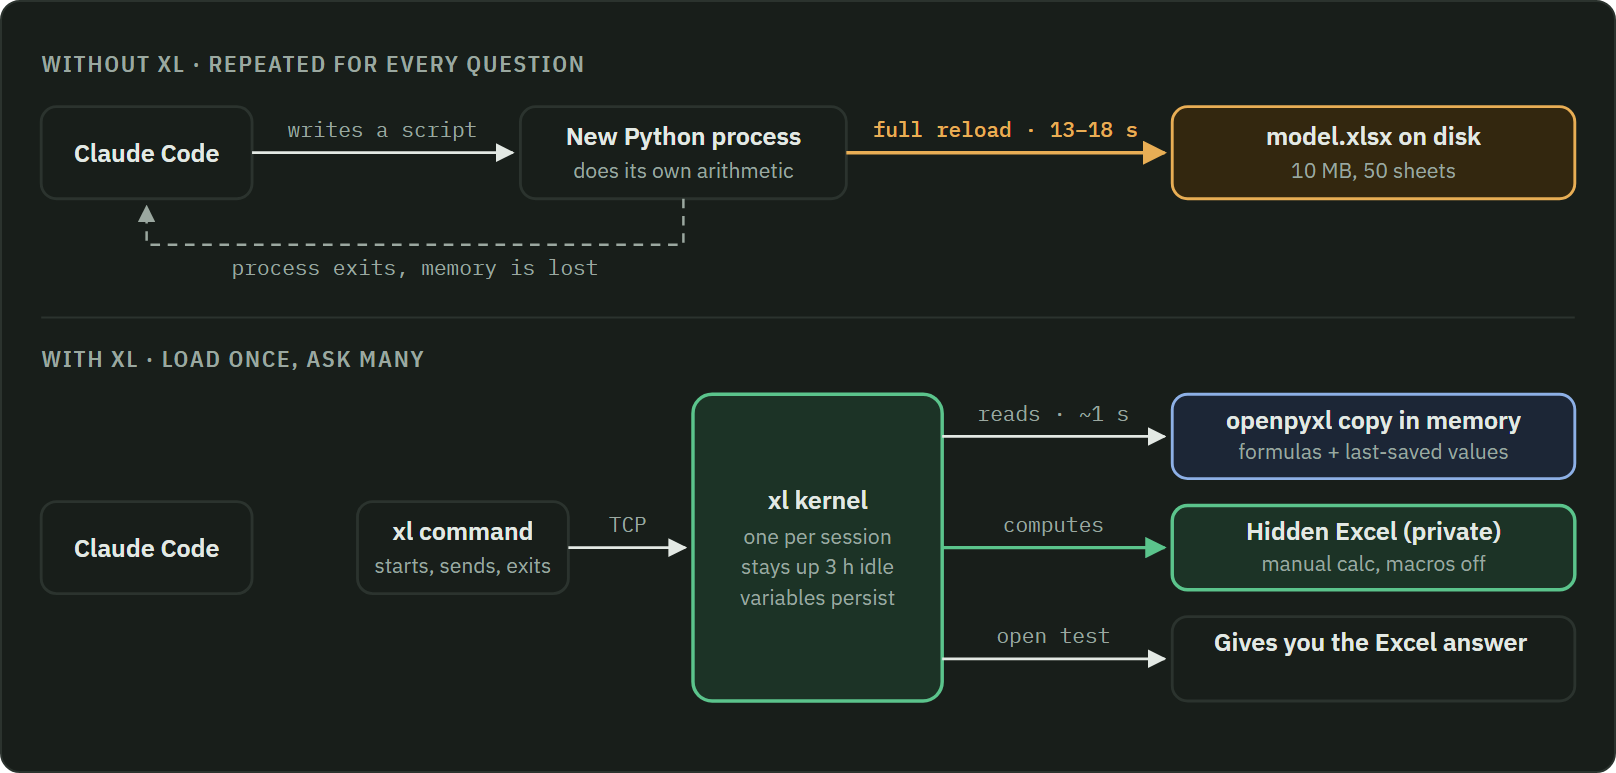
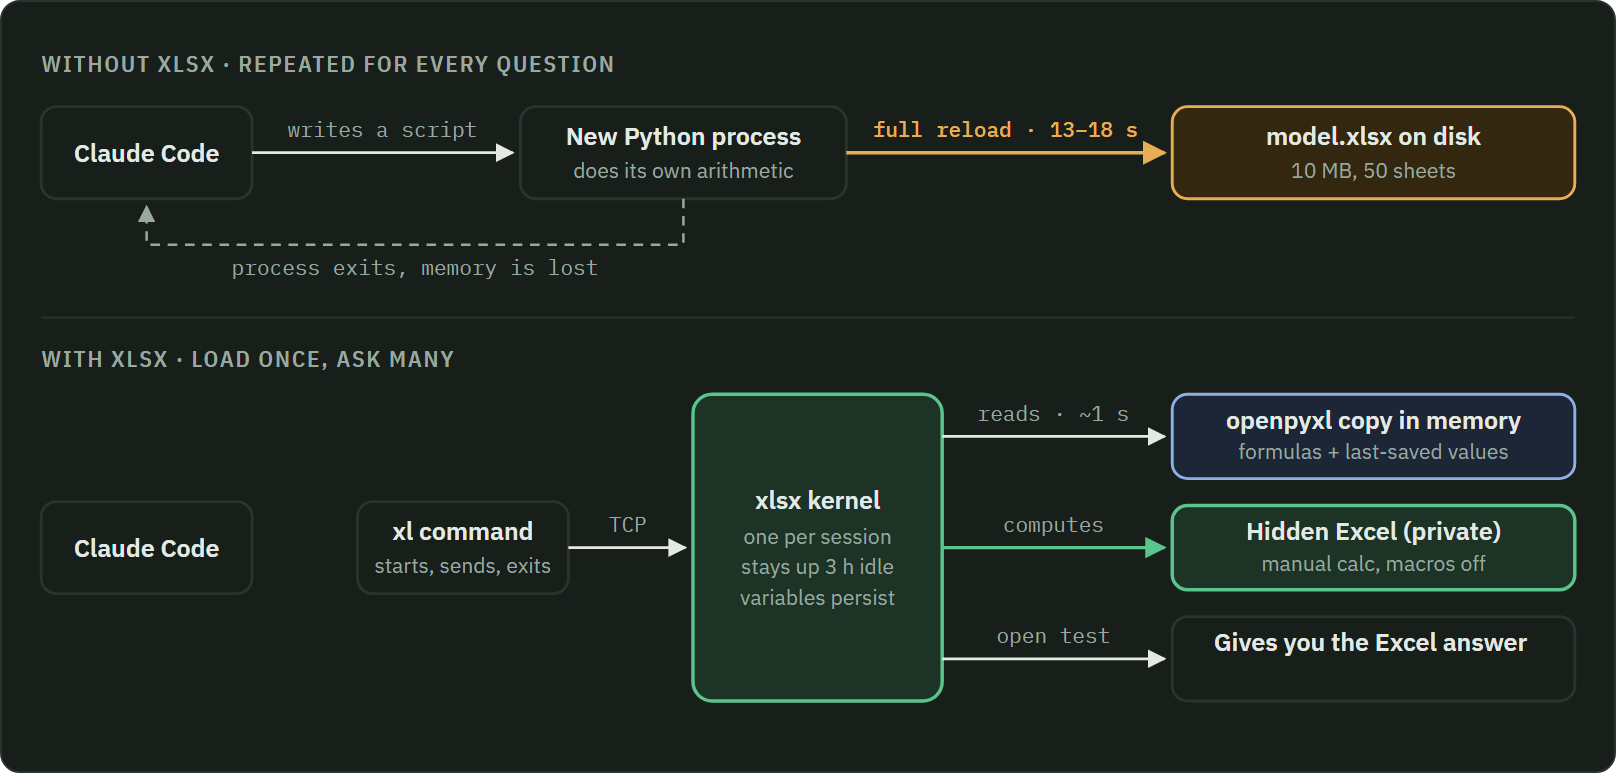
docs: the product is called xlsx on the page and in the README; the command stays xl

Changed region(s): [[0.0928, 0.4347, 0.2785, 0.4968], [0.1238, 0.0621, 0.4022, 0.0931], [0.4641, 0.621, 0.5569, 0.6831]]

diff --git a/docs/index.html b/docs/index.html
@@ -2,7 +2,7 @@
 <html lang="en"><head>
 <meta charset="utf-8">
 <meta name="viewport" content="width=device-width, initial-scale=1">
-<title>xl: Excel verification for Claude Code</title>
+<title>xlsx: Excel verification for Claude Code</title>
 <link rel="preconnect" href="https://fonts.googleapis.com">
 <link rel="preconnect" href="https://fonts.gstatic.com" crossorigin="">
 <link rel="stylesheet" href="https://fonts.googleapis.com/css2?family=IBM+Plex+Mono:wght@400;500&amp;family=IBM+Plex+Sans+Condensed:wght@500;600;700&amp;family=IBM+Plex+Sans:ital,wght@0,400;0,500;0,600;1,400&amp;display=swap">
@@ -57,7 +57,7 @@
 
   header{padding-block:30px 30px;border-bottom:1px solid var(--line)}
   .eyebrow{font-family:var(--mono);font-size:12px;letter-spacing:.06em;color:var(--muted);margin:0 0 10px}
-  h1{font-family:var(--cond);font-weight:700;font-size:clamp(32px,5.6vw,46px);line-height:1.06;margin:0 0 16px;letter-spacing:-.01em;text-wrap:balance;max-width:20ch}
+  h1{font-family:var(--cond);font-weight:700;font-size:clamp(32px,5.6vw,46px);line-height:1.06;margin:0 0 16px;letter-spacing:-.01em;text-wrap:balance;max-width:22ch}
   .lede{font-size:18px;color:var(--muted);margin:0 0 22px}
   .lede b{color:var(--ink)}
   .versus{display:grid;grid-template-columns:1fr 1fr;gap:14px}
@@ -183,7 +183,7 @@
     <a href="#overview">Overview</a>
     <a href="#problem">The problem</a>
     <a href="#ask">What you can ask</a>
-    <a href="#evidence">Why xl matters</a>
+    <a href="#evidence">Why xlsx matters</a>
     <a href="#checks">18 checks</a>
     <a href="#how">How it works</a>
     <a href="#install" class="cta">Install</a>
@@ -192,13 +192,13 @@
 <div class="wrap">
 
   <div class="topbar">
-    <div class="brand">xl <span>for Claude Code</span></div>
+    <div class="brand">xlsx <span>for Claude Code</span></div>
     <div class="meta">Version 0.9 · September 2026 · by <b>BCN TMT Labs</b> · <a href="https://github.com/Ignacioelias/xl">GitHub</a></div>
   </div>
 
   <header id="overview">
     <p class="eyebrow">Open source · Windows · Apache-2.0</p>
-    <h1>xl is a Claude add-on that forces AI to work on Excel the way an analyst would</h1>
+    <h1>xlsx is a Claude <span style="white-space:nowrap">add-on</span> that forces AI to work on Excel the way an analyst would</h1>
     <p class="lede">Working with <b>Claude in Excel can be nice</b> if you know how to use it. <b>It can help you understand how a model is built, derive insights, edit inputs, generate think-cell-ready tabs, etc.</b> However, working with Claude in Excel by default is tedious:</p>
     <div class="versus">
       <div class="vcol">
@@ -234,11 +234,11 @@
     <h2>The root of the problem</h2>
     <p>Claude Code has no built-in way to read a spreadsheet.&nbsp;</p><p>When you ask about a workbook, it writes a short Python script using <b>Openpyxl</b> (a library that unzips the .xlsx and reads its XML), runs it, reads what it prints, and then the script ends.&nbsp;</p><p>For the next question it writes a new script, which starts a new Python process that loads the whole file again. On a large business plan that takes 13 to 18 seconds, every time.</p>
     <p><b>Openpyxl </b>can see formulas as text, and it can see the values Excel stored the last time someone saved the file. It cannot calculate.&nbsp;</p><p>So when a question needs a number that isn't already stored ("what if churn were 5%?"), plain Claude either rebuilds the model's logic in Python, where it can easily get the arithmetic wrong, or trusts stored values that may be out of date.</p>
-    <p><b>xl changes two things.</b> The workbook opens once and stays in memory, so each follow-up question is answered in about a second. And any number that matters is calculated by Excel itself, running hidden in the background, so the answer is what Excel would show, with the cell reference attached (for example <span class="addr">Summary!D42</span>) so you can check it yourself.</p>
+    <p><b>xlsx changes two things.</b> The workbook opens once and stays in memory, so each follow-up question is answered in about a second. And any number that matters is calculated by Excel itself, running hidden in the background, so the answer is what Excel would show, with the cell reference attached (for example <span class="addr">Summary!D42</span>) so you can check it yourself.</p>
 
     <figure>
       <div class="dg">
-        <svg viewBox="0 0 820 372" role="img" aria-label="Without xl, every question starts a new Python process that reloads the whole file. With xl, a short-lived command talks to a kernel that keeps the file in memory, sends calculations to a hidden Excel and runs the open test in a throwaway Excel.">
+        <svg viewBox="0 0 820 372" role="img" aria-label="Without xlsx, every question starts a new Python process that reloads the whole file. With xlsx, the short-lived xl command talks to a kernel that keeps the file in memory, sends calculations to a hidden Excel and runs the open test in a throwaway Excel.">
           <defs>
             <marker id="ah" viewBox="0 0 10 10" refX="9" refY="5" markerWidth="7" markerHeight="7" orient="auto-start-reverse"><path d="M0,0 L10,5 L0,10 z" class="head"></path></marker>
             <marker id="ahc" viewBox="0 0 10 10" refX="9" refY="5" markerWidth="7" markerHeight="7" orient="auto-start-reverse"><path d="M0,0 L10,5 L0,10 z" class="head-cost"></path></marker>
@@ -246,7 +246,7 @@
             <marker id="ahm" viewBox="0 0 10 10" refX="9" refY="5" markerWidth="7" markerHeight="7" orient="auto-start-reverse"><path d="M0,0 L10,5 L0,10 z" class="head-m"></path></marker>
           </defs>
 
-          <text x="10" y="22" class="lane">WITHOUT XL · REPEATED FOR EVERY QUESTION</text>
+          <text x="10" y="22" class="lane">WITHOUT XLSX · REPEATED FOR EVERY QUESTION</text>
           <rect x="10" y="40" width="110" height="48" rx="8" class="box"></rect>
           <text x="65" y="69" text-anchor="middle" class="t">Claude Code</text>
           <rect x="260" y="40" width="170" height="48" rx="8" class="box"></rect>
@@ -264,14 +264,14 @@
 
           <line x1="10" y1="150" x2="810" y2="150" class="div"></line>
 
-          <text x="10" y="176" class="lane">WITH XL · LOAD ONCE, ASK MANY</text>
+          <text x="10" y="176" class="lane">WITH XLSX · LOAD ONCE, ASK MANY</text>
           <rect x="10" y="246" width="110" height="48" rx="8" class="box"></rect>
           <text x="65" y="275" text-anchor="middle" class="t">Claude Code</text>
           <rect x="175" y="246" width="110" height="48" rx="8" class="box"></rect>
           <text x="230" y="266" text-anchor="middle" class="t">xl command</text>
           <text x="230" y="283" text-anchor="middle" class="s">starts, sends, exits</text>
           <rect x="350" y="190" width="130" height="160" rx="10" class="box-k"></rect>
-          <text x="415" y="250" text-anchor="middle" class="t">xl kernel</text>
+          <text x="415" y="250" text-anchor="middle" class="t">xlsx kernel</text>
           <text x="415" y="268" text-anchor="middle" class="s">one per session</text>
           <text x="415" y="284" text-anchor="middle" class="s">stays up 3 h idle</text>
           <text x="415" y="300" text-anchor="middle" class="s">variables persist</text>
@@ -308,8 +308,8 @@
   </section>
 
   <section id="evidence">
-    <h2>Why xl matters</h2>
-    <p class="sub">Same questions, same model, without and with xl</p>
+    <h2>Why xlsx matters</h2>
+    <p class="sub">Same questions, same model, without and with xlsx</p>
     <div class="stats">
       <div class="stat"><div class="change"><span class="old">90%</span><span class="arr">→</span><span class="new">100%</span></div><div class="label">Correct answers on 10 questions about a real 50-sheet business plan, checked against Excel</div></div>
       <div class="stat"><div class="change"><span class="old">35 s</span><span class="arr">→</span><span class="new">19 s</span></div><div class="label">Median time per answered question</div></div>
@@ -318,12 +318,12 @@
     </div>
 
     <h3>What the evidence actually shows</h3>
-    <p>A benchmark of 10 questions on one real 50-sheet client plan (636k formulas), each answer checked against Excel by script. Claude Sonnet ran headless, once with Python and openpyxl only and once with xl.</p>
+    <p>A benchmark of 10 questions on one real 50-sheet client plan (636k formulas), each answer checked against Excel by script. Claude Sonnet ran headless, once with Python and openpyxl only and once with xlsx.</p>
     <div class="tbl"><table>
-      <thead><tr><th>Measure</th><th>Without xl</th><th>With xl</th><th>What it means</th></tr></thead>
+      <thead><tr><th>Measure</th><th>Without xlsx</th><th>With xlsx</th><th>What it means</th></tr></thead>
       <tbody>
-        <tr><td class="rowhead">Correct answers</td><td class="num">18 / 20</td><td class="num">10 / 10 final run<br>35 / 35 all runs</td><td>Both misses were the same question: "which cells reference <span class="addr">Summary!R45</span>?" Answering it means scanning every formula in 50 sheets. Plain Python started a background scan that never reported back, while xl answers it from its prebuilt index. The accuracy gain comes from this one type of question, the reverse lookup.</td></tr>
-        <tr><td class="rowhead">Turns per question (median)</td><td class="num">3 to 3.5</td><td class="num">3 final run<br>5 to 8 earlier</td><td>Without xl, Claude also needed about 3 turns. The drop to 3 with xl came from rewriting the skill that teaches Claude the tool.</td></tr>
+        <tr><td class="rowhead">Correct answers</td><td class="num">18 / 20</td><td class="num">10 / 10 final run<br>35 / 35 all runs</td><td>Both misses were the same question: "which cells reference <span class="addr">Summary!R45</span>?" Answering it means scanning every formula in 50 sheets. Plain Python started a background scan that never reported back, while xlsx answers it from its prebuilt index. The accuracy gain comes from this one type of question, the reverse lookup.</td></tr>
+        <tr><td class="rowhead">Turns per question (median)</td><td class="num">3 to 3.5</td><td class="num">3 final run<br>5 to 8 earlier</td><td>Without xlsx, Claude also needed about 3 turns. The drop to 3 with xlsx came from rewriting the skill that teaches Claude the tool.</td></tr>
         <tr><td class="rowhead">Median time per question</td><td class="num">35 to 39 s</td><td class="num">19 s</td><td>Roughly half.</td></tr>
         <tr><td class="rowhead">Cost per 10 questions</td><td class="num">$1.72 to $1.84</td><td class="num">$1.61</td><td>About 10% lower.</td></tr>
         <tr><td class="rowhead">Time to answer the 10 questions</td><td class="num">610 to 1,021 s</td><td class="num">260 s</td><td>57 to 75% faster.</td></tr>
@@ -362,12 +362,12 @@
     <h2>How it works</h2>
     <div class="flow">
       <div class="fnode"><span class="t">You</span><span class="d">Ask Claude Code a question about a workbook, in plain English or Spanish.</span></div>
-      <div class="fnode"><span class="t">Claude Code</span><span class="d">Recognises the task and calls xl instead of writing one-off scripts.</span></div>
-      <div class="fnode"><span class="t">xl kernel</span><span class="d">Holds the workbook in memory. Finds, reads and traces in about a second per question.</span></div>
+      <div class="fnode"><span class="t">Claude Code</span><span class="d">Recognises the task and calls xlsx instead of writing one-off scripts.</span></div>
+      <div class="fnode"><span class="t">xlsx kernel</span><span class="d">Holds the workbook in memory. Finds, reads and traces in about a second per question.</span></div>
       <div class="fnode engine"><span class="t">Excel engine</span><span class="d">A hidden, separate instance. Recalculates, runs what-ifs, renders ranges and test-opens the file.</span></div>
     </div>
     <p class="aside">After Claude edits a workbook, a quick check runs automatically and the findings go back to Claude before it reports the work as done. Excel runs in a private hidden instance, so your own Excel windows are never touched. Originals are never saved over by default: edits and what-ifs happen on working copies, and Claude only changes the original if you tell it to.</p>
-    <p class="aside">xl is a standalone command-line program with its own persistent kernel, so it keeps working if a given chat tool is unavailable. Every command runs the same way when typed by hand in a plain terminal, although using it that way takes some Python. Claude Code is one way to drive it: a lightweight skill teaches Claude when to reach for xl, and a hook runs a quick check after every edit. It is an independent open-source project, not an official Anthropic product.</p>
+    <p class="aside">xlsx is a standalone command-line program (the command is <code>xl</code>) with its own persistent kernel, so it keeps working if a given chat tool is unavailable. Every command runs the same way when typed by hand in a plain terminal, although using it that way takes some Python. Claude Code is one way to drive it: a lightweight skill teaches Claude when to reach for xlsx, and a hook runs a quick check after every edit. It is an independent open-source project, not an official Anthropic product.</p>
   </section>
 
   <section id="install">
@@ -404,7 +404,7 @@
       </div></li>
       <li><div class="body">
         <span class="t">Use it</span>
-        <span class="s">Start Claude Code in a folder with a workbook and ask: <i>“What is in this model, and does it have any errors?”</i> Claude picks up xl on its own, so there is no command to learn. A typical exchange looks like this:</span>
+        <span class="s">Start Claude Code in a folder with a workbook and ask: <i>“What is in this model, and does it have any errors?”</i> Claude picks up xlsx on its own, so there is no command to learn. A typical exchange looks like this:</span>
         <div class="term"><span class="cmd">&gt; what is in this model and does it have errors?</span>
 <span class="dim">Reading Summary, Inputs, Engine (50 sheets)...
 Checks: 14 broken named ranges
@@ -412,7 +412,7 @@ Recalculated in Excel: 3 #REF! cells
 Summary!D42  EBITDA 2028 = 12.4m ...</span></div>
       </div></li>
     </ol>
-    <p class="note">xl itself makes no network calls: your workbooks stay on your laptop, and Claude reads what xl prints through Claude Code as usual.</p>
+    <p class="note">xlsx itself makes no network calls: your workbooks stay on your laptop, and Claude reads what xlsx prints through Claude Code as usual.</p>
   </section>
 
   <footer>© 2026 BCN TMT Labs · <a href="https://github.com/Ignacioelias/xl/blob/main/LICENSE">Apache License 2.0</a> · Not affiliated with Anthropic</footer>

diff --git a/README.md b/README.md
@@ -1,6 +1,6 @@
 <picture>
   <source media="(prefers-color-scheme: dark)" srcset="docs/readme/hero-dark.png">
-  <img src="docs/readme/hero-light.png" width="100%" alt="xl is a Claude add-on that forces AI to work on Excel the way an analyst would. By default Claude in Excel is slow, hardcodes values, forgets to name the reference cell, misses mistakes and burns a lot of tokens. BCN TMT Labs fixes that: it cuts response time by 50 to 75%, forces Claude to never hardcode values by default, cites the reference cell for every number, doesn't miss mistakes, and cuts the token cost of working in Excel by about 10 to 20%.">
+  <img src="docs/readme/hero-light.png" width="100%" alt="xlsx is a Claude add-on that forces AI to work on Excel the way an analyst would. By default Claude in Excel is slow, hardcodes values, forgets to name the reference cell, misses mistakes and burns a lot of tokens. BCN TMT Labs fixes that: it cuts response time by 50 to 75%, forces Claude to never hardcode values by default, cites the reference cell for every number, doesn't miss mistakes, and cuts the token cost of working in Excel by about 10 to 20%.">
 </picture>
 
 **Needs:** Windows · desktop Excel · [Claude Code](https://claude.com/claude-code) &nbsp;|&nbsp;
@@ -19,17 +19,17 @@ saved the file. It cannot calculate. So when a question needs a number that isn'
 ("what if churn were 5%?"), plain Claude either rebuilds the model's logic in Python, where it can
 easily get the arithmetic wrong, or trusts stored values that may be out of date.
 
-**xl changes two things.** The workbook opens once and stays in memory, so each follow-up question
+**xlsx changes two things.** The workbook opens once and stays in memory, so each follow-up question
 is answered in about a second. And any number that matters is calculated by Excel itself, running
 hidden in the background, so the answer is what Excel would show, with the cell reference attached
 (for example `Summary!D42`) so you can check it yourself.
 
 <picture>
   <source media="(prefers-color-scheme: dark)" srcset="docs/readme/diagram-dark.png">
-  <img src="docs/readme/diagram-light.png" width="100%" alt="Without xl, Claude Code writes a script, a new Python process does its own arithmetic and fully reloads the 10 MB workbook (13 to 18 s), then exits and loses its memory; this repeats for every question. With xl, the short-lived xl command talks over TCP to the xl kernel, which stays up and keeps variables; the kernel reads from an openpyxl copy in memory in about a second, computes in a private hidden Excel, and runs the open test that gives you the Excel answer.">
+  <img src="docs/readme/diagram-light.png" width="100%" alt="Without xlsx, Claude Code writes a script, a new Python process does its own arithmetic and fully reloads the 10 MB workbook (13 to 18 s), then exits and loses its memory; this repeats for every question. With xlsx, the short-lived xl command talks over TCP to the xlsx kernel, which stays up and keeps variables; the kernel reads from an openpyxl copy in memory in about a second, computes in a private hidden Excel, and runs the open test that gives you the Excel answer.">
 </picture>
 
-*With xl, the kernel loads the file once and reloads it only when the file's date or size
+*With xlsx, the kernel loads the file once and reloads it only when the file's date or size
 changes. Reading goes to openpyxl, and any number that has to be calculated goes to Excel. Before
 a file is handed over, a throwaway Excel with alerts switched on opens it to confirm there is no
 repair prompt.*
@@ -41,11 +41,11 @@ repair prompt.*
   <img src="docs/readme/cards-light.png" width="100%" alt="What is in this model? Lists sheets, tables, named ranges and sheet links. Where does this number come from? Walks the formulas back or forward. What if churn were 5% instead of 4%? Excel recalculates and reports the outputs; the original is only saved if you ask. Check this model for errors: full recalculation, every error and stale value, 18 checks and an open test. Build the think-cell tab for this bridge: a feed laid out for think-cell with correct values before any recalculation, checked before handover.">
 </picture>
 
-Claude picks xl up on its own. You don't need to learn any commands.
+Claude picks xlsx up on its own. You don't need to learn any commands.
 
-## Why xl matters
+## Why xlsx matters
 
-Same questions, same model, without and with xl.
+Same questions, same model, without and with xlsx.
 
 <picture>
   <source media="(prefers-color-scheme: dark)" srcset="docs/readme/stats-dark.png">
@@ -56,12 +56,12 @@ Same questions, same model, without and with xl.
 
 A benchmark of 10 questions on one real 50-sheet client plan (636k formulas), each answer checked
 against Excel by script. Claude Sonnet ran headless, once with Python and openpyxl only and once
-with xl.
+with xlsx.
 
-| Measure | Without xl | With xl | What it means |
+| Measure | Without xlsx | With xlsx | What it means |
 |---|---|---|---|
-| Correct answers | 18 / 20 | 10 / 10 final run<br>35 / 35 all runs | Both misses were the same question: "which cells reference `Summary!R45`?" Answering it means scanning every formula in 50 sheets. Plain Python started a background scan that never reported back, while xl answers it from its prebuilt index. The accuracy gain comes from this one type of question, the reverse lookup. |
-| Turns per question (median) | 3 to 3.5 | 3 final run<br>5 to 8 earlier | Without xl, Claude also needed about 3 turns. The drop to 3 with xl came from rewriting the skill that teaches Claude the tool. |
+| Correct answers | 18 / 20 | 10 / 10 final run<br>35 / 35 all runs | Both misses were the same question: "which cells reference `Summary!R45`?" Answering it means scanning every formula in 50 sheets. Plain Python started a background scan that never reported back, while xlsx answers it from its prebuilt index. The accuracy gain comes from this one type of question, the reverse lookup. |
+| Turns per question (median) | 3 to 3.5 | 3 final run<br>5 to 8 earlier | Without xlsx, Claude also needed about 3 turns. The drop to 3 with xlsx came from rewriting the skill that teaches Claude the tool. |
 | Median time per question | 35 to 39 s | 19 s | Roughly half. |
 | Cost per 10 questions | $1.72 to $1.84 | $1.61 | About 10% lower. |
 | Time to answer the 10 questions | 610 to 1,021 s | 260 s | 57 to 75% faster. |
@@ -88,7 +88,7 @@ on its planted defect or a switched-off rule fires.
 
 <picture>
   <source media="(prefers-color-scheme: dark)" srcset="docs/readme/flow-dark.png">
-  <img src="docs/readme/flow-light.png" width="100%" alt="You ask Claude Code about a workbook, in English or Spanish. Claude Code recognises the task and calls xl. The xl kernel holds the workbook in memory and finds, reads and traces in about a second. The Excel engine, a hidden separate instance, recalculates, runs what-ifs, renders ranges and test-opens the file.">
+  <img src="docs/readme/flow-light.png" width="100%" alt="You ask Claude Code about a workbook, in English or Spanish. Claude Code recognises the task and calls xlsx. The xlsx kernel holds the workbook in memory and finds, reads and traces in about a second. The Excel engine, a hidden separate instance, recalculates, runs what-ifs, renders ranges and test-opens the file.">
 </picture>
 
 After Claude edits a workbook, a quick check runs automatically and the findings go back to Claude
@@ -96,17 +96,17 @@ before it reports the work as done. Excel runs in a private hidden instance, so 
 windows are never touched. Originals are never saved over by default: edits and what-ifs happen on
 working copies, and Claude only changes the original if you tell it to.
 
-xl is a standalone command-line program with its own persistent kernel, so it keeps working if a
+xlsx is a standalone command-line program (the command is `xl`) with its own persistent kernel, so it keeps working if a
 given chat tool is unavailable. Every command runs the same way when typed by hand in a plain
 terminal, although using it that way takes some Python. Claude Code is one way to drive it: the
-`xl-repl` skill teaches Claude when to reach for xl and gives it the full API before its first
+`xl-repl` skill teaches Claude when to reach for xlsx and gives it the full API before its first
 call, and a hook runs a quick check after every edit. It is an independent open-source project,
 not an official Anthropic product.
 
 **Under the hood.** The `xl` command is a thin client that passes Claude's script to a long-lived
 Python kernel (one per session, local TCP with a token, 3 h idle timeout) where the workbook is
 already loaded and variables persist. The kernel reloads a file only when its date or size
-changes. Calculation, what-ifs and rendering go to a hidden Excel that xl starts itself with
+changes. Calculation, what-ifs and rendering go to a hidden Excel that xlsx starts itself with
 manual calculation, macros off and alerts off; the open test uses a separate Excel with alerts on.
 The skill sets four rules: check for errors after every write, take numbers from Excel, cite
 `Sheet!Address` for every figure, and never edit an original in place.
@@ -194,6 +194,6 @@ The README images are rendered from [`docs/index.html`](docs/index.html) by
 ## Credits and licence
 
 The design follows the public research log by [Witan Labs](https://github.com/witanlabs/research-log).
-xl is an independent project and is not affiliated with Anthropic or Witan Labs.
+xlsx is an independent project and is not affiliated with Anthropic or Witan Labs.
 
 Apache License 2.0 · © 2026 Ignacio Elías. See [LICENSE](LICENSE) and [NOTICE](NOTICE).
